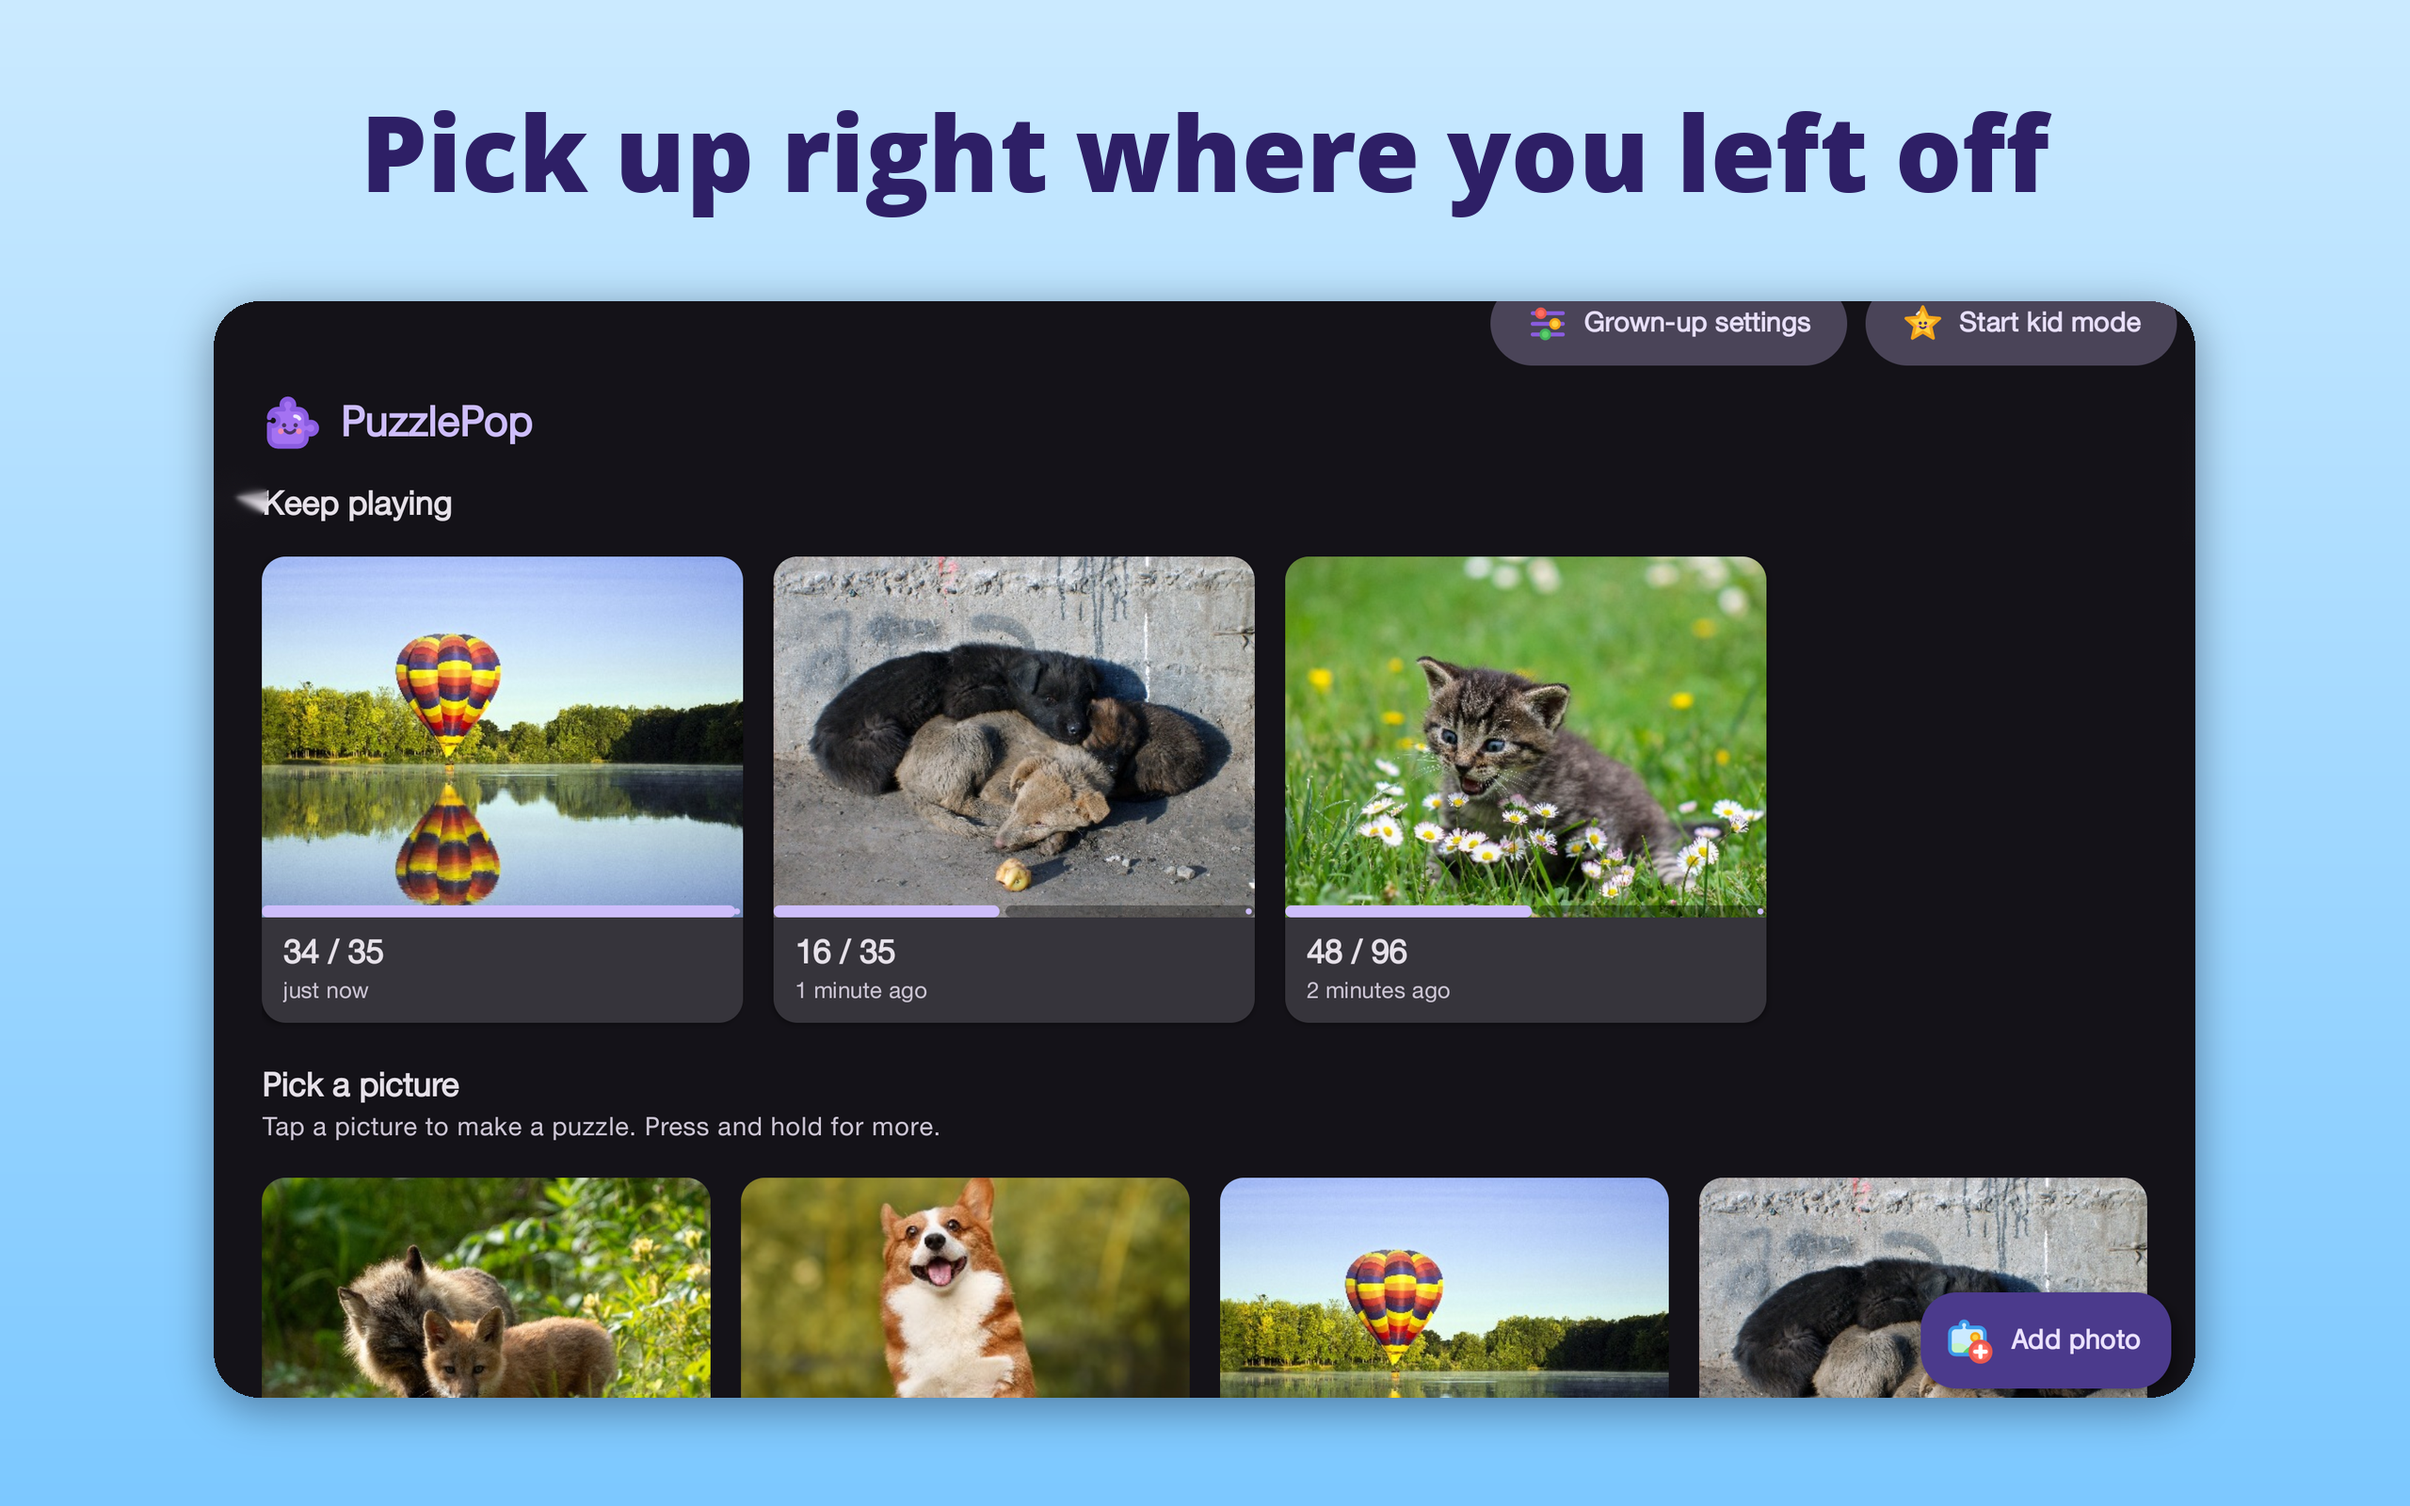
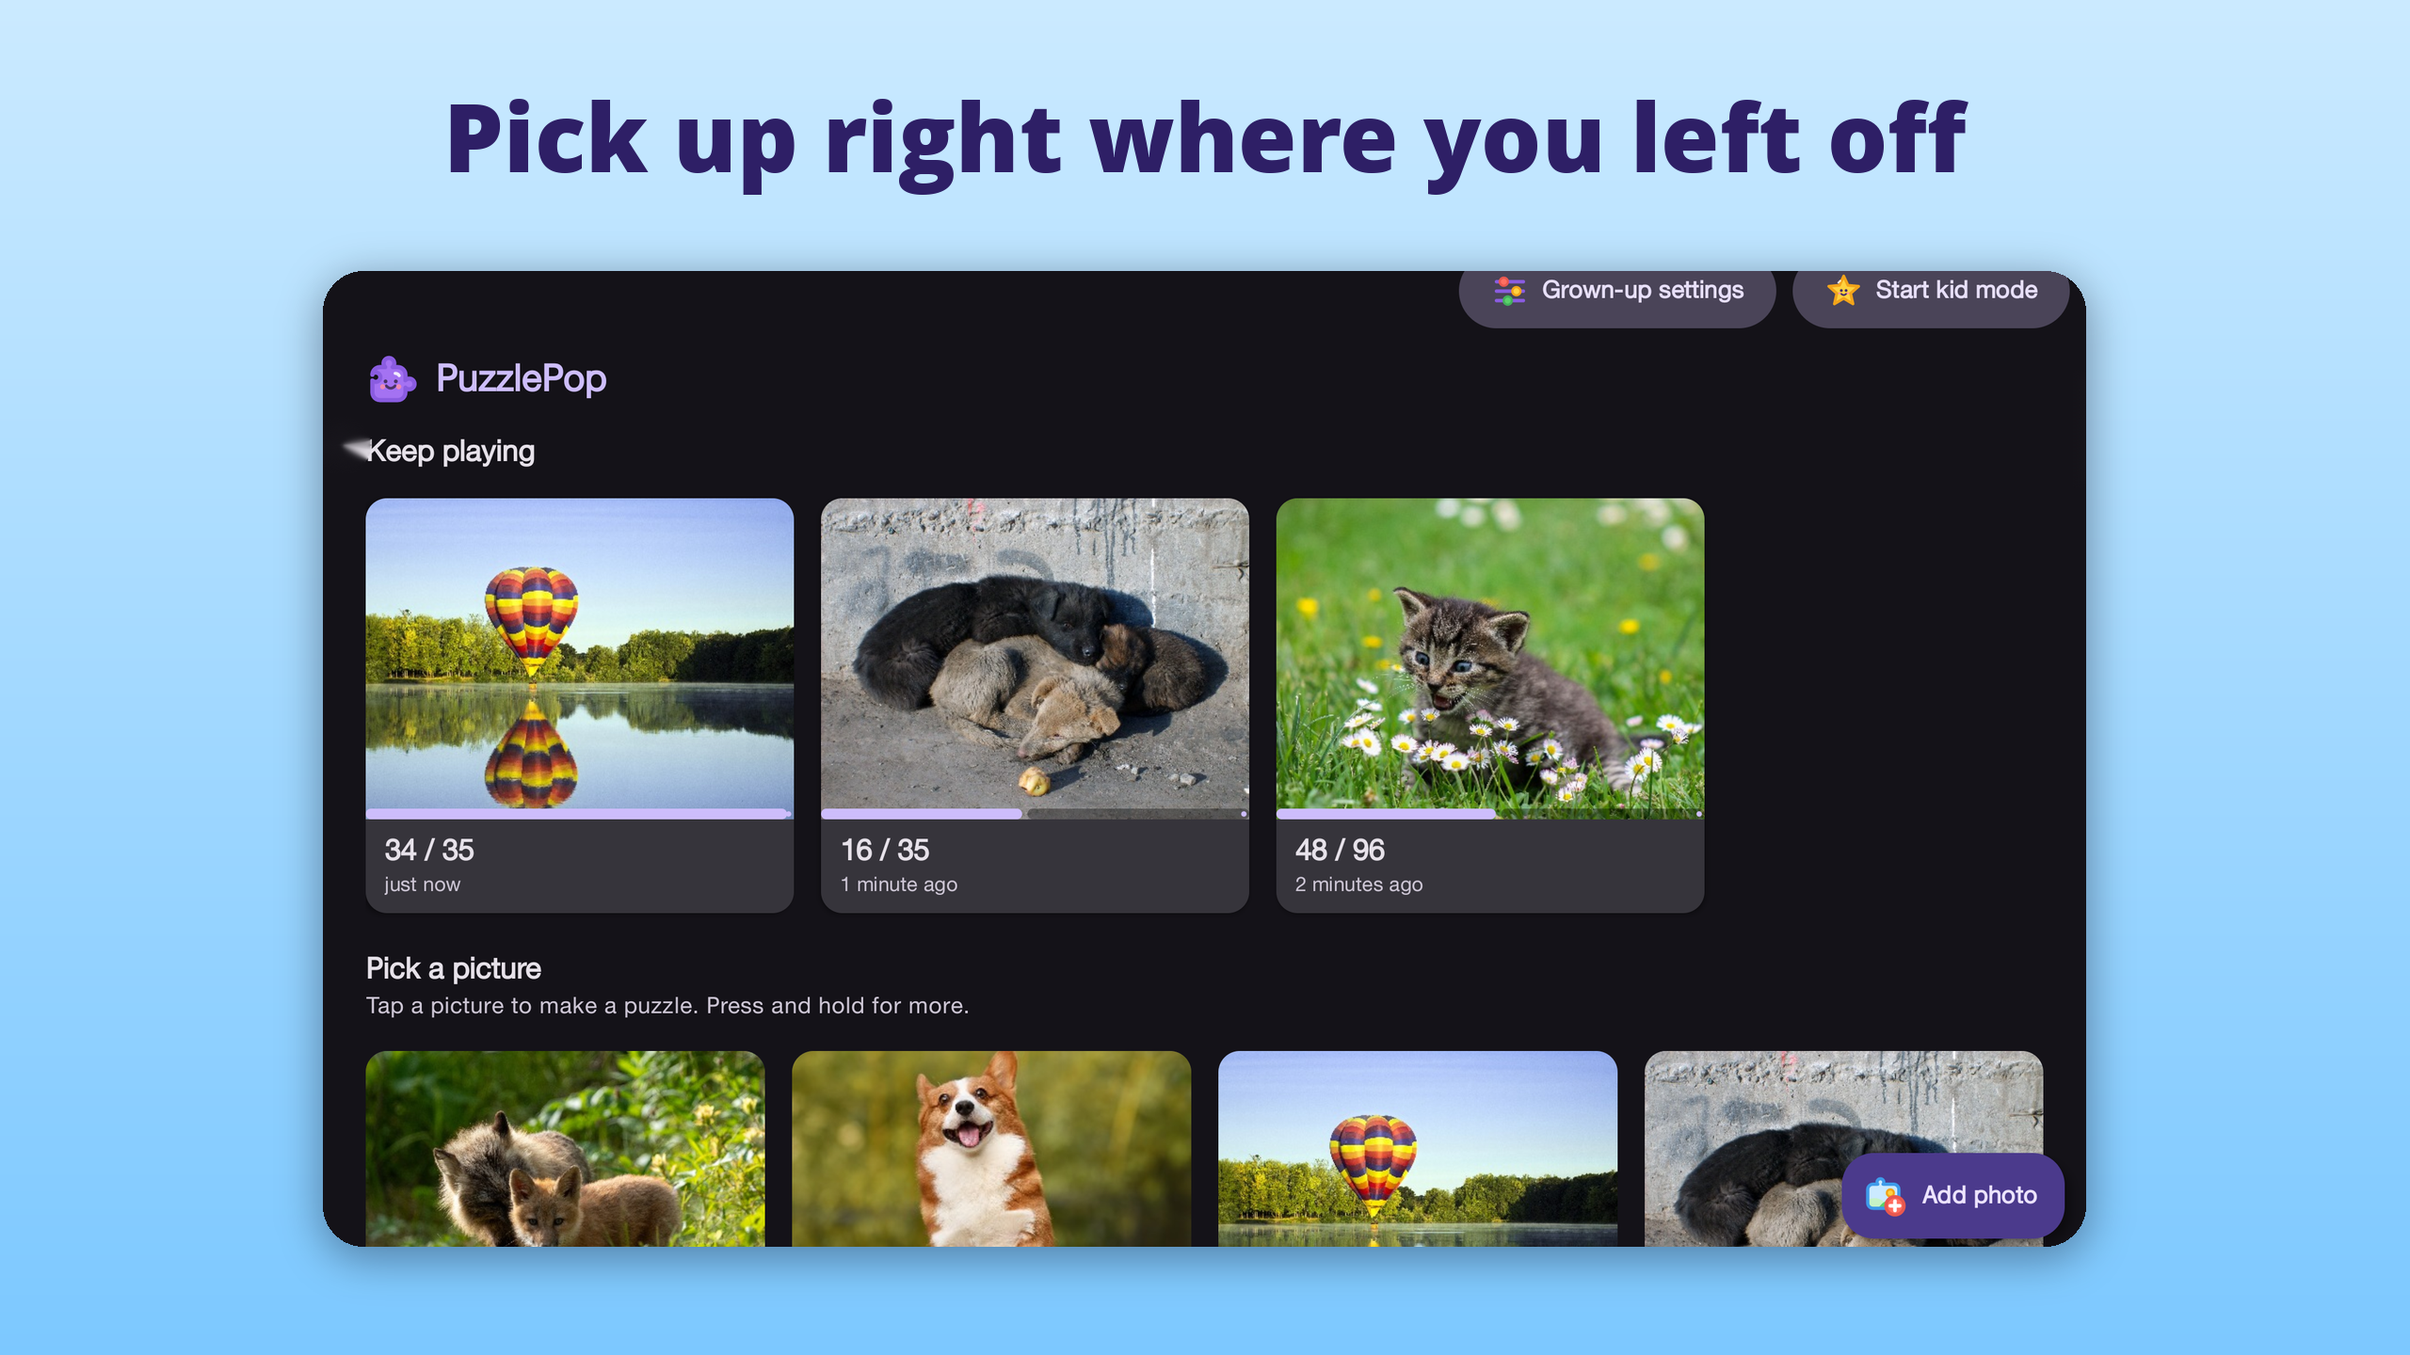
Tablet store screenshots at 16:9, which Play's tablet slots require

Changed region(s): [[0.0625, 0.1875, 0.9375, 0.9688], [0.125, 0.0625, 0.875, 0.1562]]

diff --git a/tools/store_art.py b/tools/store_art.py
@@ -8,7 +8,7 @@ Usage: python3 -I tools/store_art.py <raw-dir> <out-dir>
 Writes to <out-dir>:
   feature-graphic.png   1024x500, the banner at the top of the listing
   phone-N.png           1920x1080 framed phone screenshots with a caption
-  tablet-N.png          2560x1600 framed tablet screenshots with a caption
+  tablet-N.png          2560x1440 framed tablet screenshots with a caption
 The icon (icon-512.png) is rendered separately from tools/launcher-icon/preview.svg; see play-store/README.md.
 Needs Pillow and the Open Sans fonts (Fedora: open-sans-fonts).
 """
@@ -40,7 +40,7 @@ CAPTIONS = {
         ("tablet_settings.png", "Play-time limits, behind a grown-up PIN"),
     ],
 }
-CANVAS = {"phone": (1920, 1080), "tablet": (2560, 1600)}
+CANVAS = {"phone": (1920, 1080), "tablet": (2560, 1440)}  # Play wants 16:9 for tablet slots
 
 
 def sky(size):
